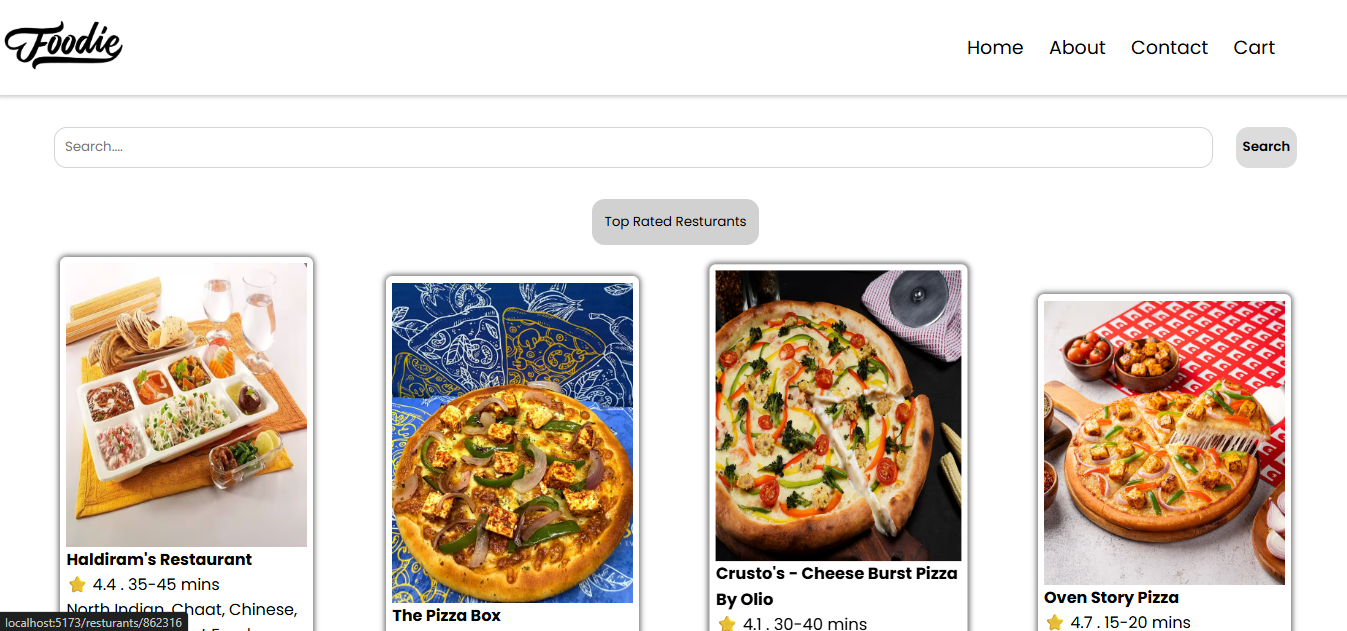
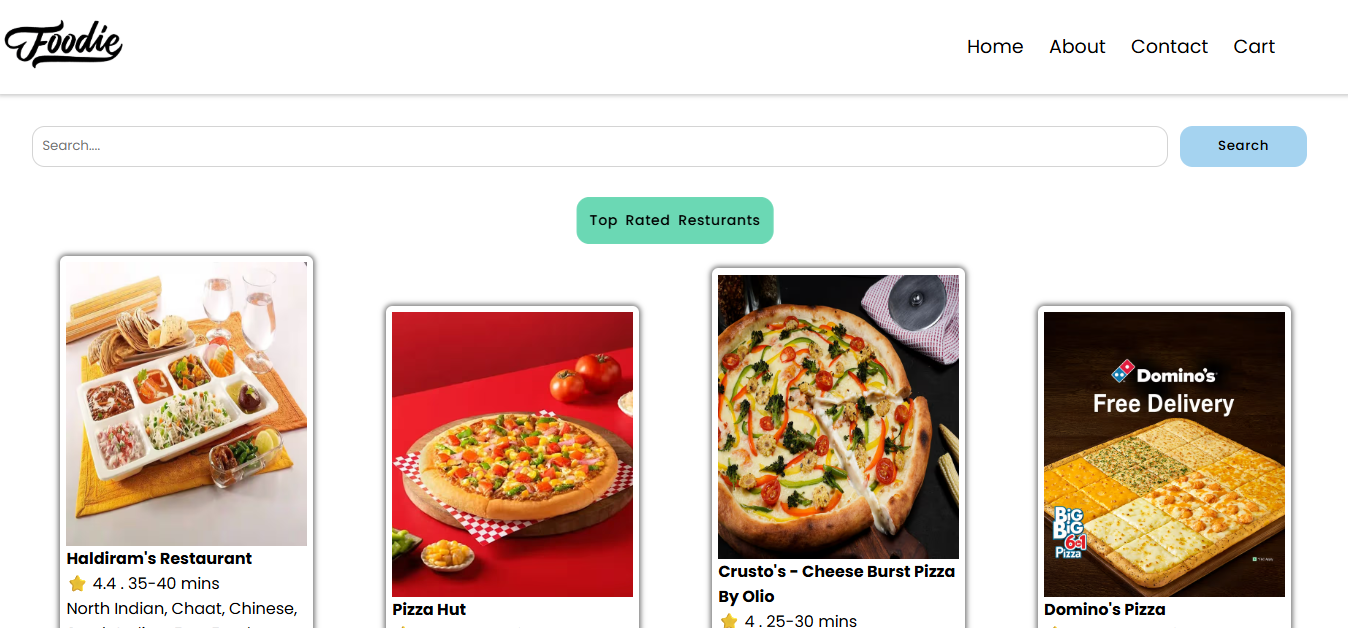
updated search and top restos btn

diff --git a/src/App.css b/src/App.css
@@ -78,14 +78,18 @@
 #searchBarDiv button {
   padding: 1vmin;
   cursor: pointer;
-  font-weight: 600;
+  font-weight: 500;
   border-radius: 2vmin;
   border: none;
-  background-color: rgba(185, 185, 185, 0.5);
+  background-color: rgba(142, 200, 236, 0.8);
+  margin: 0 2vmin;
+  transition: all 0.3s ease;
+  letter-spacing: 0.1vmin;
+  width: 10%;
 }
 
 #searchBarDiv button:hover {
-  background-color: rgba(207, 205, 205, 1);
+  background-color: rgba(142, 200, 236, 1);
 }
 
 #resturantContainer {
@@ -136,14 +140,17 @@
   padding: 2vmin;
   border-radius: 2vmin;
   border: none;
-  background-color: rgba(179, 179, 179, 0.6);
-  letter-spacing: 1;
-  word-spacing: 1;
-  transition: all ease-in-out 0.2s;
+  background-color: rgba(107, 216, 180, 0.9);
+  letter-spacing: 0.1vmin;
+  word-spacing: 0.5vmin;
+  transition: all 0.5s ease;
+  font-weight: 500;
 }
 
 #filter_btn:hover {
-  background-color: rgb(179, 179, 179, 0.9);
+  background-color: rgba(107, 216, 180, 1);
+  transform: scale(1.05);
+
 }
 
 .shimmerContainer {
@@ -274,6 +281,9 @@
   .shimmerCard,
   .singleItemDiv {
     width: 40%;
+  }
+  #searchBarDiv button {
+    width: 20%;
   }
 }
 
